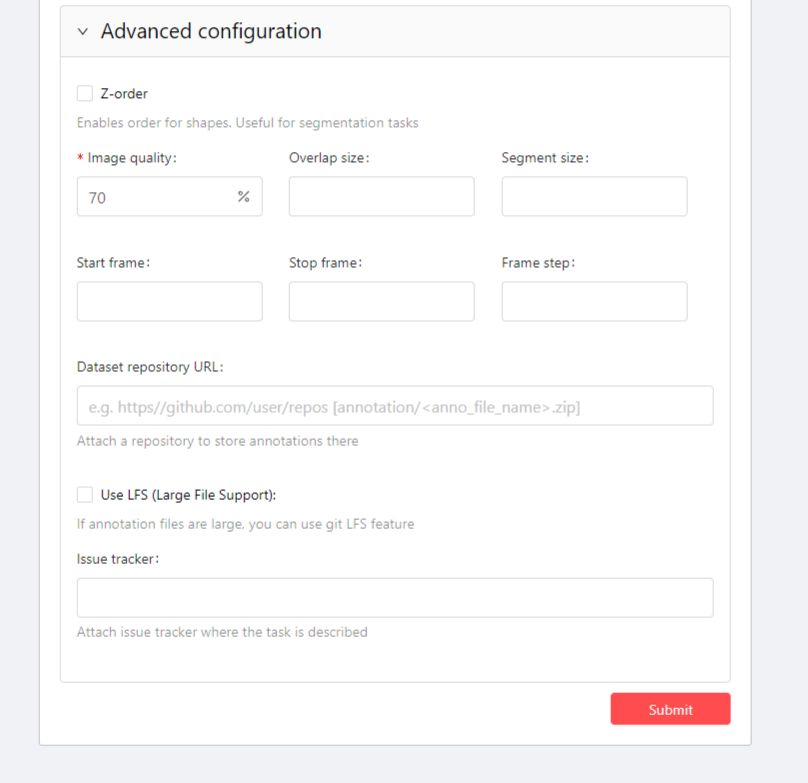
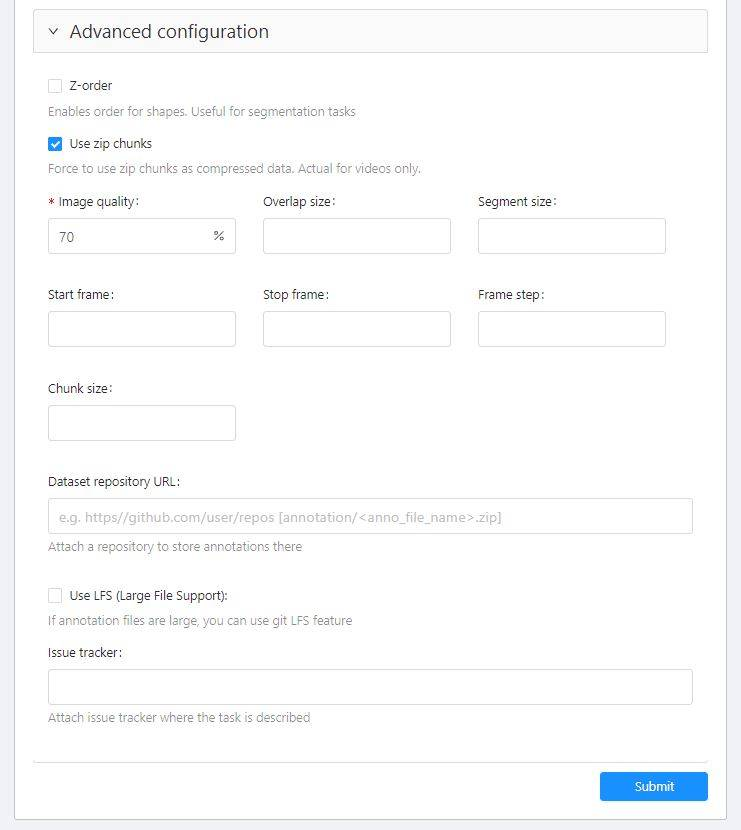
Update item "Creating an annotation task"
Update text and images

diff --git a/cvat/apps/documentation/user_guide.md b/cvat/apps/documentation/user_guide.md
@@ -147,6 +147,8 @@ Go to the [Django administration panel](http://localhost:8080/admin). There you 
       ![](static/documentation/images/image128.jpg)  
 
     **Z-Order**. Defines the order on drawn polygons. Check the box for enable layered displaying.
+
+    **Use zip chunks**. Force to use zip chunks as compressed data. Actual for videos only.
     
     **Image Quality**. Use this option to specify quality of uploaded images.
     The option helps to load high resolution datasets faster.
@@ -182,8 +184,17 @@ Go to the [Django administration panel](http://localhost:8080/admin). There you 
 
     **Stop frame**. Frame on which video in task ends.
 
-    **Frame Filter**. Use this option to filter video frames.
+    **Frame Step**. Use this option to filter video frames.
     For example, enter ``step=25`` to leave every twenty fifth frame in the video. Use this option on video files only.
+
+    **Chunk size**. Defines a number of frames to be packed in a chunk when send from client to server.
+    Server defines automatically if empty. 
+    
+    Recommended values:
+    - 1080p or less: 36
+    - 2k or less: 8 - 16
+    - 4k or less: 4 - 8
+    - More: 1 - 4
 
     **Dataset Repository**.  URL link of the repository optionally specifies the path to the repository for storage
     (``default: annotation / <dump_file_name> .zip``).
@@ -232,7 +243,7 @@ Go to the [Django administration panel](http://localhost:8080/admin). There you 
       - [Pascal VOC 2012](http://host.robots.ox.ac.uk/pascal/VOC/)
       - [MS COCO](http://cocodataset.org/#format-data)
       - [YOLO](https://pjreddie.com/darknet/yolo/)
-    - ``Auto Annotation`` — automatic annotation with  OpenVINO toolkit.
+    - ``Automatic Annotation`` — automatic annotation with  OpenVINO toolkit.
       Presence depends on how you build CVAT instance.
     - ``Open bug tracker`` — opens a link to Issue tracker.
     - ``Delete`` — delete task.
@@ -269,7 +280,7 @@ Go to the [Django administration panel](http://localhost:8080/admin). There you 
 1.  Follow a link inside ``Jobs`` section to start annotation process.
     In some cases, you can have several links. It depends on size of your
     task and ``Overlap Size`` and ``Segment Size`` parameters. To improve
-    UX, only the first several frames will be loaded and you will be able
+    UX, only the first chunk of several frames will be loaded and you will be able
     to annotate first images. Other frames will be loaded in background.
 
     ![](static/documentation/images/image007.jpg)
